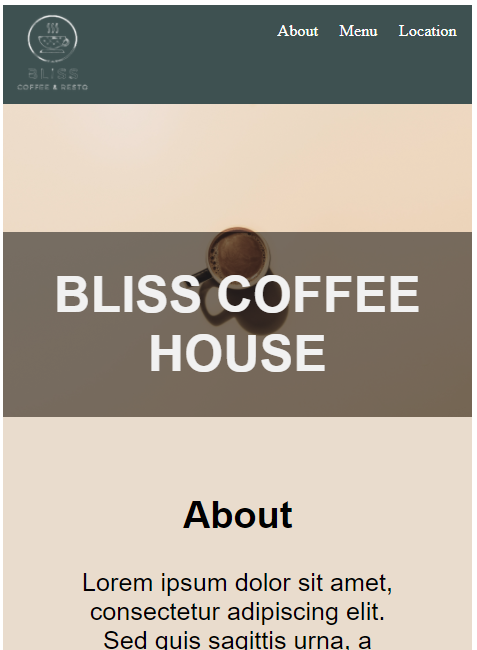
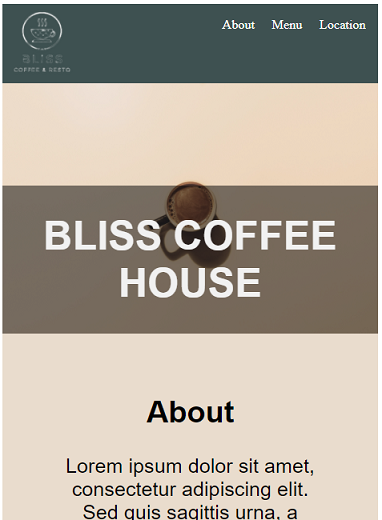
updates

diff --git a/me.css b/me.css
@@ -25,20 +25,20 @@ nav{
   background: #120344;
 	font-variant: small-caps;
 	font-family: Verdana, "Arial", "Times New Roman", serif;
-	font-size: 150%;
+	font-size: 1.750rem;
   padding-bottom: 15px;
 }
 
 section.skills1{
 	display:block;
-	font-size: 200%;
+font-size: 1.750rem;
 }
 section.education{
 	display:block;
-	font-size: 150%;
+	font-size: 1.750rem;
 }
 section.more1{
-	font-size: 150%;
+font-size: 1.750rem;
 width: 100%;
 padding:50px;
 background-color: #85ACB6
@@ -47,7 +47,7 @@ background-color: #85ACB6
 float:left;*/
 }
 .About{
-	font-size: 150%
+	font-size: 1.750rem;
 
 }
 body{
@@ -73,7 +73,7 @@ section.edu{
 	display:block;
 	float:left;
 	width: 100%;*/
-	font-size: 150%;
+	font-size: 1.750rem;
 	background: #466368;
 /*background: -webkit-linear-gradient(#648880, #293f50);
 /*	background-color: lightgrey;
